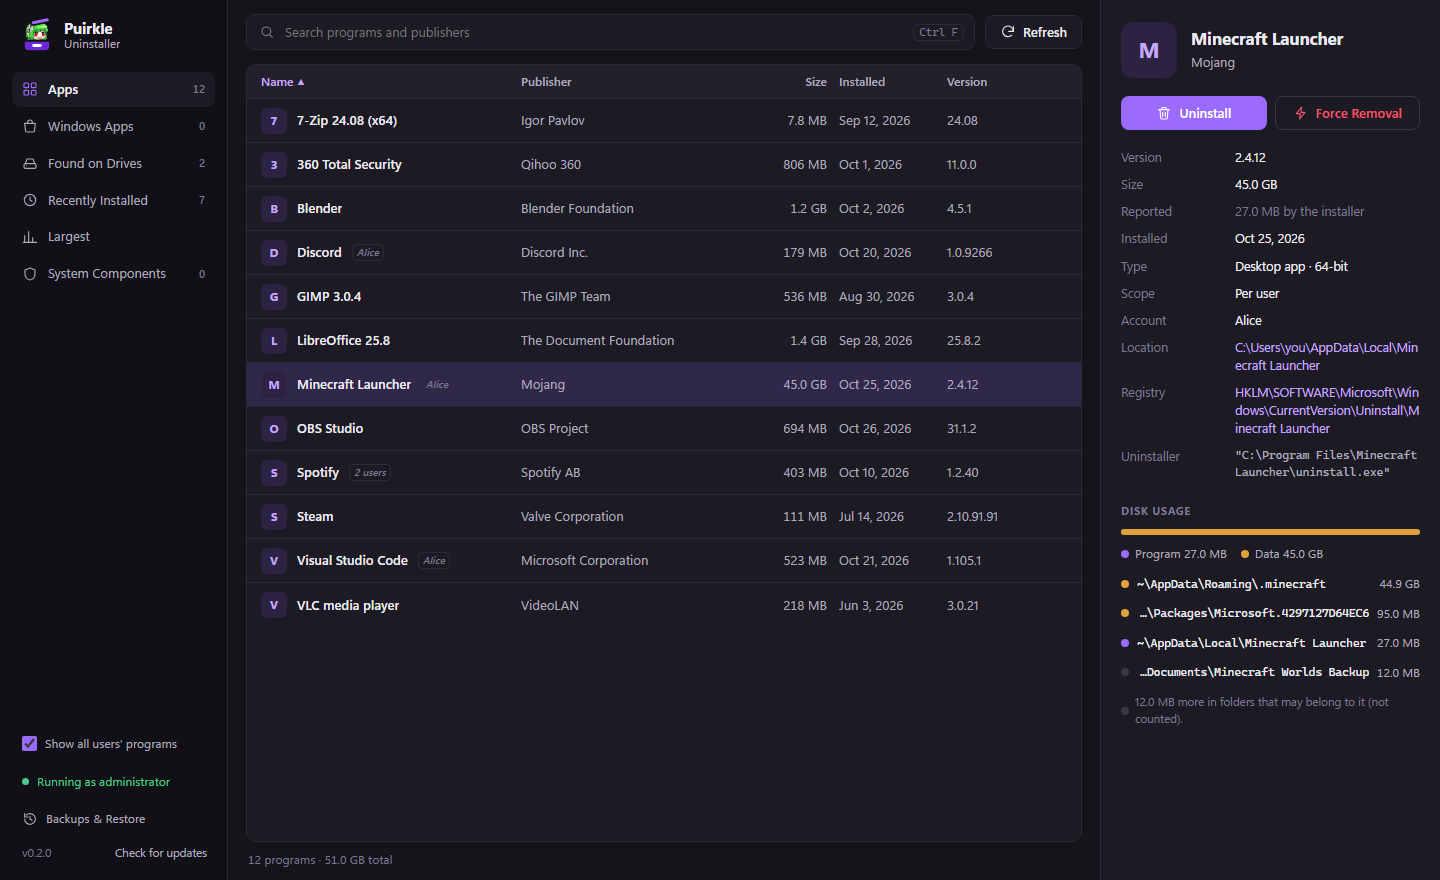
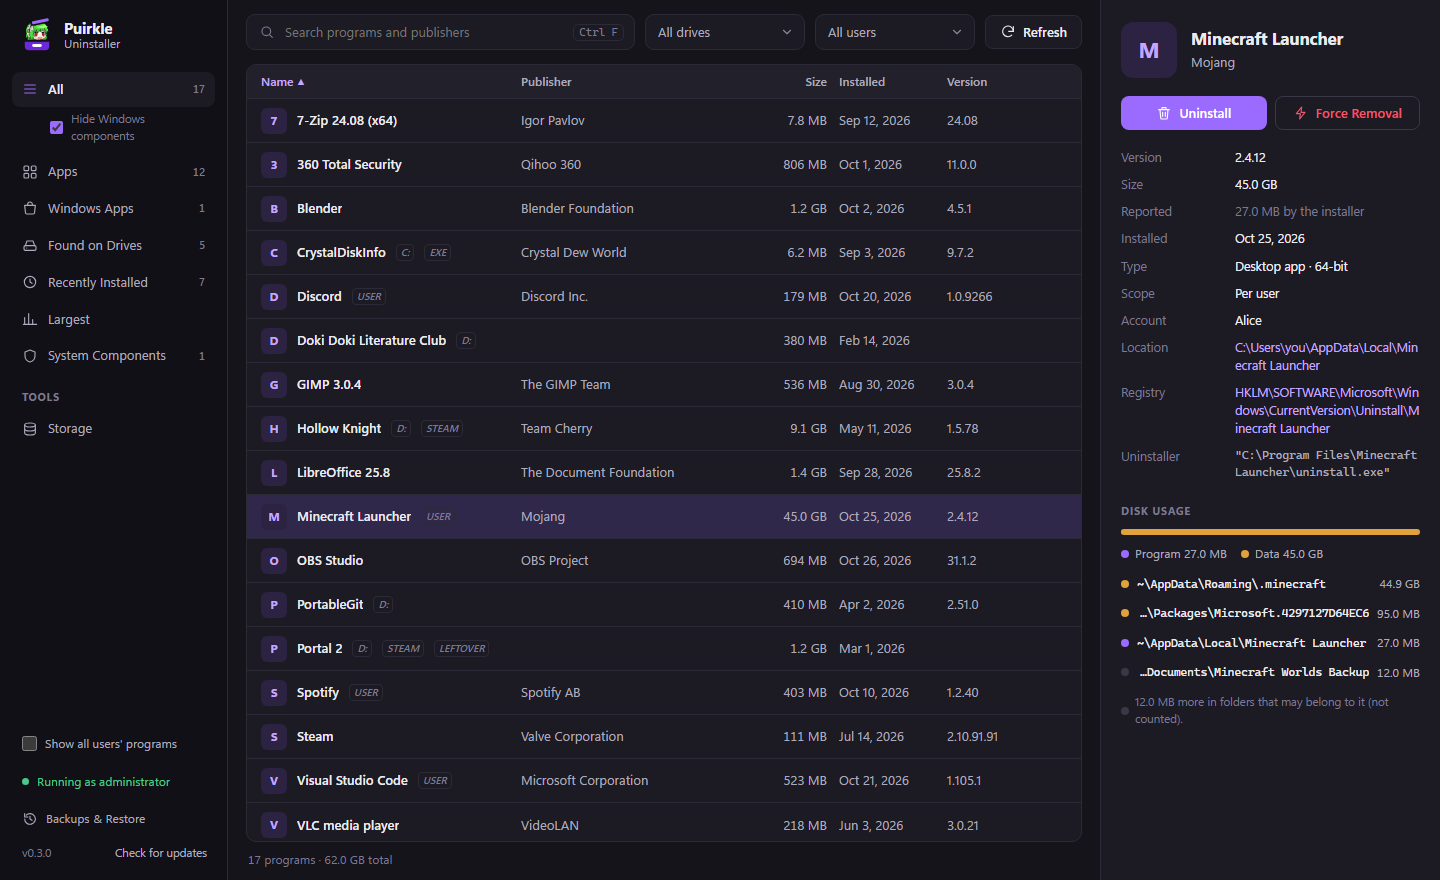
Update README screenshots to v0.3.0 and add Thai donate badge

diff --git a/README.md b/README.md
@@ -15,9 +15,10 @@
   <a href="https://github.com/Puirkle/PuirkleUninstaller/actions/workflows/ci.yml"><img alt="CI" src="https://github.com/Puirkle/PuirkleUninstaller/actions/workflows/ci.yml/badge.svg"></a>
   <a href="LICENSE"><img alt="MIT License" src="https://img.shields.io/badge/license-MIT-9B6BFF"></a>
   <a href="https://buymeacoffee.com/puirkle"><img alt="Buy Me a Coffee" src="https://img.shields.io/badge/Buy%20Me%20a%20Coffee-puirkle-FFDD00?logo=buymeacoffee&logoColor=black"></a>
+  <a href="https://ezdn.app/puirkle"><img alt="Donate via ezdn (Thai)" src="https://img.shields.io/badge/%E0%B9%82%E0%B8%94%E0%B9%80%E0%B8%99%E0%B8%97%20(Thai)-ezdn.app%2Fpuirkle-00B14F"></a>
 </p>
 
-![PuirkleUninstaller listing programs for every user account, with a program's real disk usage](docs/screenshot-main.png)
+![PuirkleUninstaller's All view: installed programs, Store apps, portable apps and Steam games in one list, with a program's real disk usage](docs/screenshot-main.png)
 
 Most programs leave things behind when you uninstall them: settings folders, caches, game saves,
 registry keys, startup entries, services, scheduled tasks. PuirkleUninstaller runs the program's own
@@ -74,6 +75,8 @@ The **All** tab shows everything in one list; *Hide Windows components* keeps Wi
 out of the way. Filter any view by **drive** or by **user account**.
 
 ### Storage analyzer and instant file search
+![Storage view browsing a drive's folders and files sorted by size, with the drive's largest files](docs/screenshot-storage.png)
+
 See what's eating your disk. On NTFS drives (as administrator) PuirkleUninstaller reads each
 drive's file table directly, like Everything and WizTree: a drive with a million files takes
 seconds, and at startup every drive is read in the background while the program list loads.
@@ -82,7 +85,11 @@ seconds, and at startup every drive is read in the background while the program 
 - **Largest folders** lists the subfolders where space really sits, at any depth.
 - **Search every file and folder** on all your drives as you type, with wildcards (`*.iso`) and
   several words (`mp4 2026`). Results are sorted by size.
-- Show anything in Explorer, or move it to the Recycle Bin (Windows and user folders are protected).
+- Every file in a folder is listed, not only the big ones.
+- Right-click any row to open it, show it in Explorer, copy its path, or move it to the Recycle Bin
+  (Windows and user folders are protected). **Go to path** jumps straight to any folder.
+
+![Searching all drives for "mp4", with results from every drive sorted by size](docs/screenshot-search.png)
 
 The same scan gives the program list its real sizes instantly, instead of measuring each program
 folder separately.
